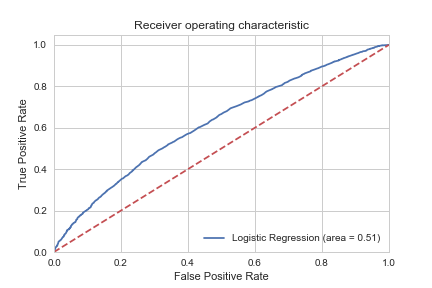
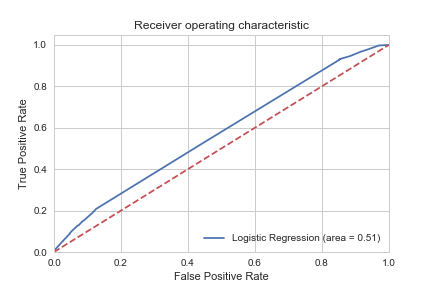
changing appt no show criteria

diff --git a/simple_logit_regression.py b/simple_logit_regression.py
@@ -21,7 +21,7 @@ data = pd.read_excel('GUL001_Appt_Data_fixed.xlsx').drop(['Unnamed: 22'], axis=1
 data = data[data['Age'] > 61]
 data = data[data['Age'] < 109]
 data['Age'].value_counts()
-data['ApptStatusId'] = data['ApptStatusId'].map(lambda x: 1 if x in [6,15,3,4,17,14] else 0)
+data['ApptStatusId'] = data['ApptStatusId'].map(lambda x: 1 if x in [1,2,3,4,5,6,9,14,15,16,17] else 0)
 data = data.drop(['Id','ApptStartTime','ApptEndTime','ApptCreatedDate','ApptStatus','ApptTypeId','ApptFacilityId','ApptLocation','ApptProviderName','ApptProviderId','PatientId','AccountNumber','PatientZip'], axis=1)
 
 
